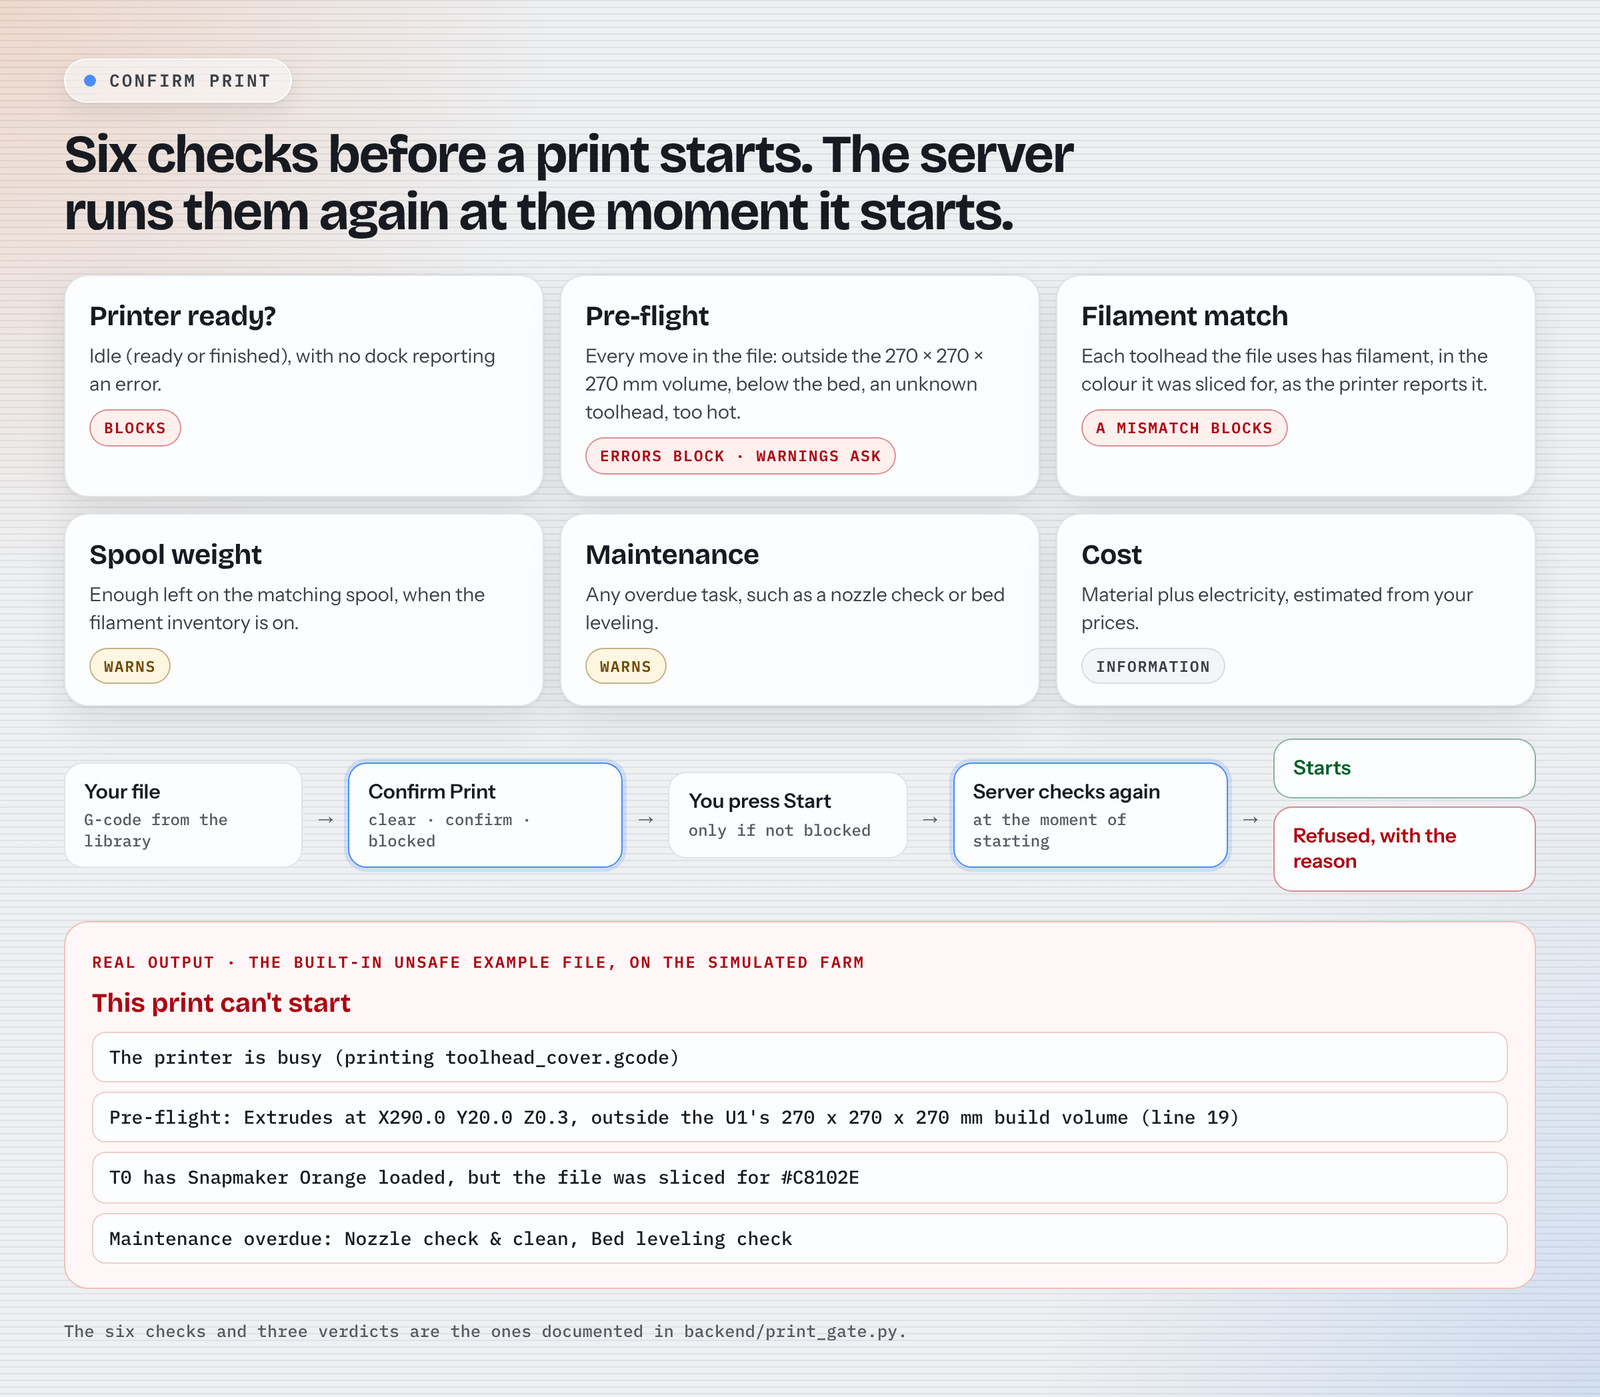
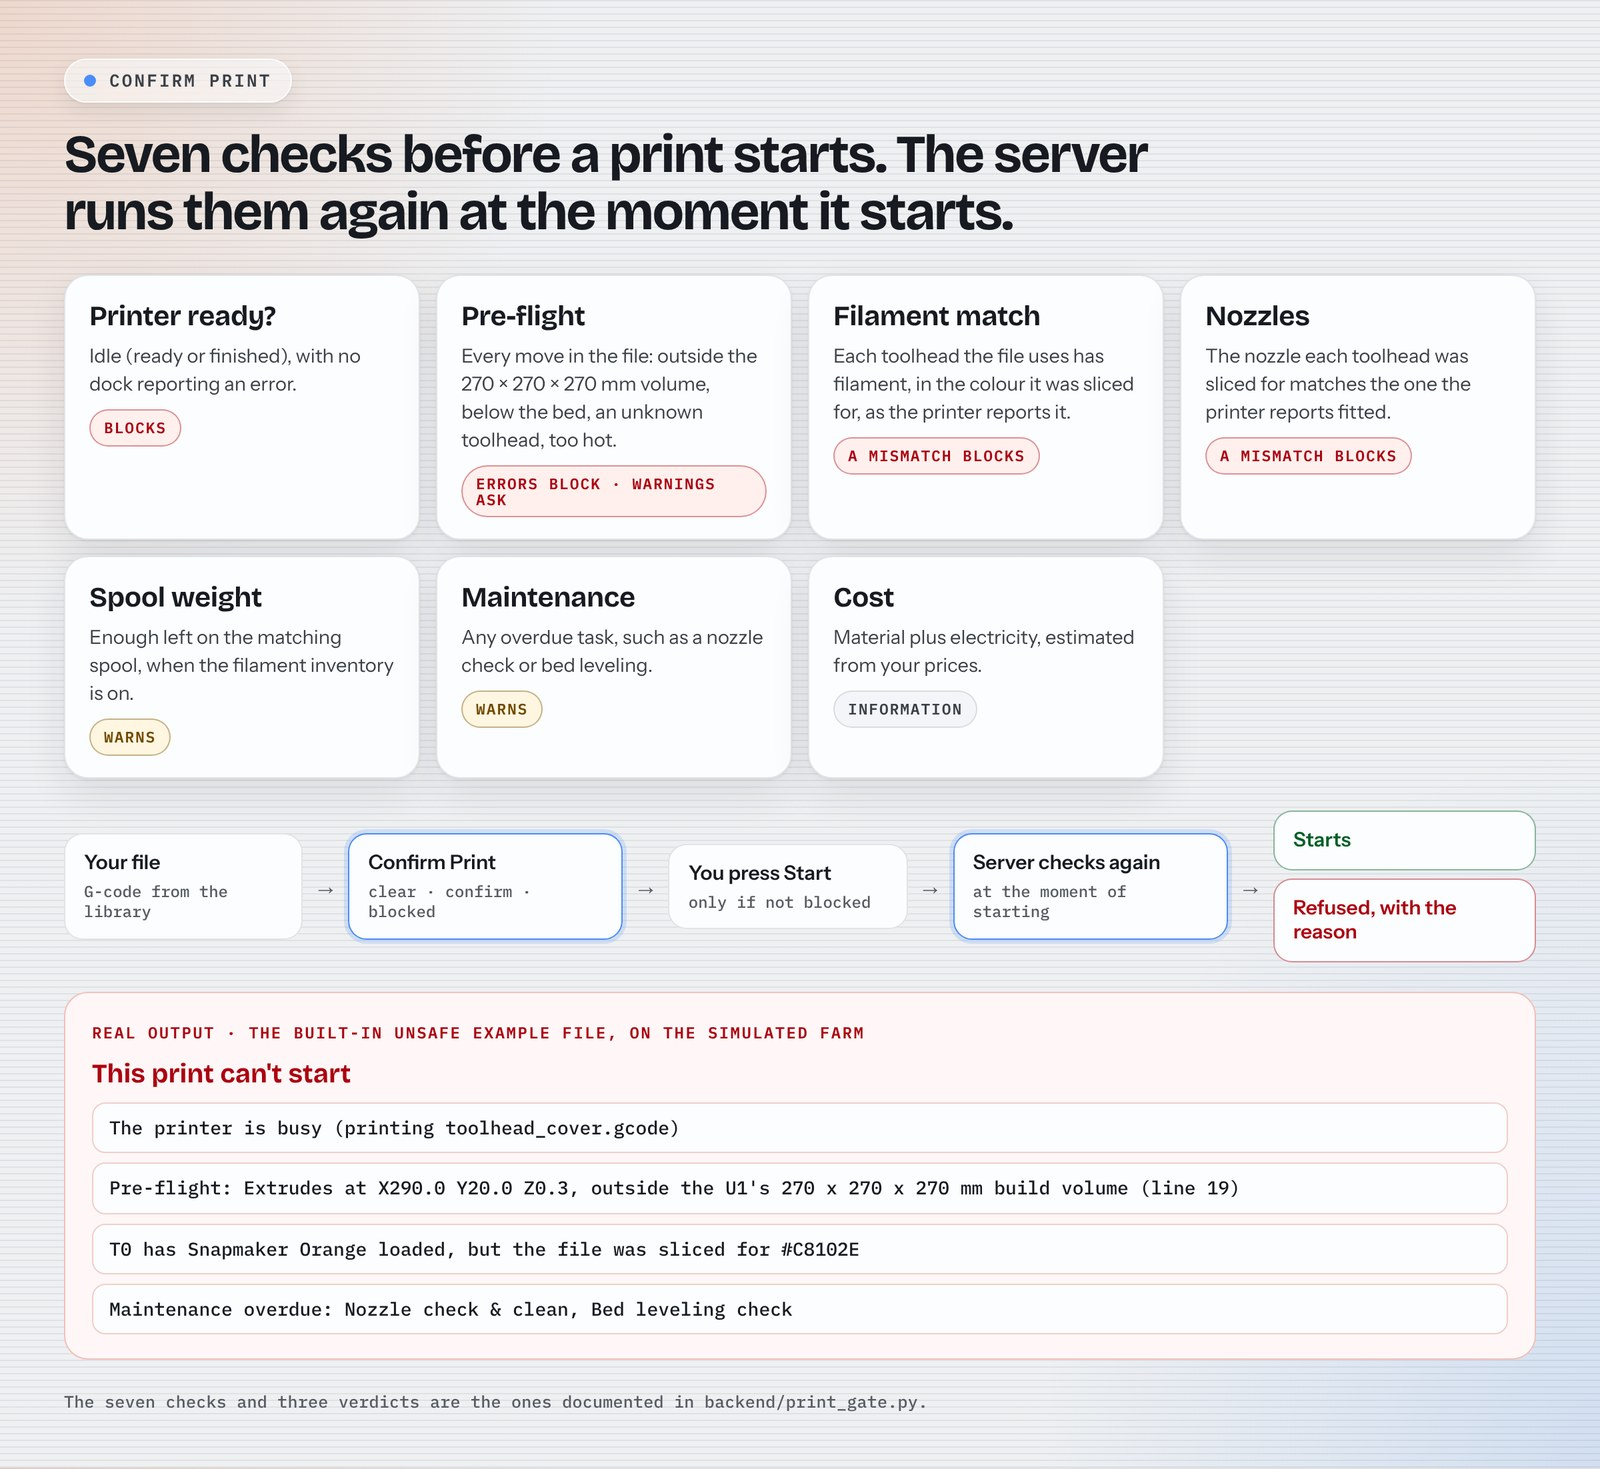
Correct the Confirm Print count to seven and other contradictions
Confirm Print runs seven checks, since the nozzle check blocks a start when the fitted nozzle differs from the one the file was sliced for. The code docstring, README, board picture and marketing notes said six. Also: the README said Python 3.8 had never been run, but GitHub Actions passes on it; the example button no longer says 'winning example'; CLAUDE.md lists DEJAVU_NO_BROWSER.

Claude-Session: https://claude.ai/code/session_01XATun5MYN3bE1Y6zCKejTF

Changed region(s): [[0.0312, 0.0308, 0.9688, 0.9542], [0.7812, 0.8926, 0.9375, 0.9234], [0.5, 0.9542, 0.5312, 0.985]]

diff --git a/tools/readme-images/boards.html b/tools/readme-images/boards.html
@@ -60,7 +60,7 @@ h2{font:700 40px/1.06 "Bricolage Grotesque";letter-spacing:-.03em;margin-top:18p
 .legend i{width:14px;height:14px;border-radius:50%;background:var(--c)}
 
 /* confirm */
-.checks{display:grid;grid-template-columns:repeat(3,1fr);gap:12px;margin-top:26px}
+.checks{display:grid;grid-template-columns:repeat(4,1fr);gap:12px;margin-top:26px}
 .check{display:grid;gap:8px;align-content:start;padding:18px 18px 16px;border-radius:18px;background:var(--paper);border:1px solid var(--hair);box-shadow:var(--shadow)}
 .check .n{font:600 12px/1 "IBM Plex Mono";color:var(--faint);letter-spacing:.08em}
 .check h3{font:680 21px/1.15 "Bricolage Grotesque";letter-spacing:-.01em}
@@ -159,11 +159,12 @@ h2{font:700 40px/1.06 "Bricolage Grotesque";letter-spacing:-.03em;margin-top:18p
 <!-- ============ 2. Confirm Print ============ -->
 <section class="board" id="b-confirm">
   <span class="eyebrow"><i></i>Confirm Print</span>
-  <h2>Six checks before a print starts. The server runs them again at the moment it starts.</h2>
+  <h2>Seven checks before a print starts. The server runs them again at the moment it starts.</h2>
   <div class="checks">
     <div class="check"><h3>Printer ready?</h3><p>Idle (ready or finished), with no dock reporting an error.</p><span class="tag block">Blocks</span></div>
     <div class="check"><h3>Pre-flight</h3><p>Every move in the file: outside the 270 × 270 × 270 mm volume, below the bed, an unknown toolhead, too hot.</p><span class="tag block">Errors block · warnings ask</span></div>
     <div class="check"><h3>Filament match</h3><p>Each toolhead the file uses has filament, in the colour it was sliced for, as the printer reports it.</p><span class="tag block">A mismatch blocks</span></div>
+    <div class="check"><h3>Nozzles</h3><p>The nozzle each toolhead was sliced for matches the one the printer reports fitted.</p><span class="tag block">A mismatch blocks</span></div>
     <div class="check"><h3>Spool weight</h3><p>Enough left on the matching spool, when the filament inventory is on.</p><span class="tag ask">Warns</span></div>
     <div class="check"><h3>Maintenance</h3><p>Any overdue task, such as a nozzle check or bed leveling.</p><span class="tag ask">Warns</span></div>
     <div class="check"><h3>Cost</h3><p>Material plus electricity, estimated from your prices.</p><span class="tag info">Information</span></div>
@@ -185,7 +186,7 @@ h2{font:700 40px/1.06 "Bricolage Grotesque";letter-spacing:-.03em;margin-top:18p
       <li>Maintenance overdue: Nozzle check &amp; clean, Bed leveling check</li>
     </ul>
   </div>
-  <p class="foot">The six checks and three verdicts are the ones documented in backend/print_gate.py.</p>
+  <p class="foot">The seven checks and three verdicts are the ones documented in backend/print_gate.py.</p>
 </section>
 
 <!-- ============ 3. Architecture ============ -->

diff --git a/frontend/index.html b/frontend/index.html
@@ -600,7 +600,7 @@
         <p>A different nozzle and layer height on each toolhead: fine detail where it shows, thick fast layers inside</p></div>
       <section class="card liquid-glass lp-card">
         <div class="card-head"><div><h2>Plan the layers</h2><p class="card-sub">Pick each toolhead's nozzle and the layer height you'd like. The planner finds the shared layer grid, the way mixed-nozzle slicers do, and checks each height against Snapmaker's U1 profile for that nozzle.</p></div>
-          <button class="btn small" type="button" id="lp-example">Try the winning example</button></div>
+          <button class="btn small" type="button" id="lp-example">Try an example</button></div>
         <div class="lp-layout">
           <form class="lp-form" id="lp-form" novalidate>
             <div class="lp-rows" id="lp-rows"></div>

diff --git a/backend/print_gate.py b/backend/print_gate.py
@@ -16,6 +16,8 @@ It combines checks that already exist elsewhere, plus the file itself:
   filament match     each toolhead the file uses must have filament
                      loaded, in the colour the file was sliced for,
                      as the printer itself reports it     -> mismatch blocks
+  nozzles            the nozzle each toolhead was sliced for must match
+                     the one the printer reports fitted    -> mismatch blocks
   spool weight       enough filament left on the matching spool? (from the
                      filament inventory, when that module is on) -> warns
   maintenance        overdue tasks                           -> warns

diff --git a/README.md b/README.md
@@ -150,7 +150,7 @@ Every screenshot in this section comes from the built-in simulated farm (the **D
 
 <sub>**Fleet:** every printer's state, progress, filament per dock, temperatures and health, with controls to command several at once.</sub>
 
-![Confirm Print explained: six checks (printer ready, pre-flight, filament match, spool weight, maintenance, cost), what each one does when it fails, the path from your file to a start or a refusal, and a real refusal from the built-in unsafe example file](docs/img/explainer-confirm-print.jpg)
+![Confirm Print explained: seven checks (printer ready, pre-flight, filament match, nozzles, spool weight, maintenance, cost), what each one does when it fails, the path from your file to a start or a refusal, and a real refusal from the built-in unsafe example file](docs/img/explainer-confirm-print.jpg)
 
 <table>
 <tr>
@@ -483,7 +483,7 @@ Snapmaker's own source and documentation.
 ![By the numbers: 638 automated tests, 250 ms between live updates, 12 printers on one dashboard, 0 packages to install beyond Python, 7 maintenance tasks, 28 Home Assistant sensors, 27 printers in the farm sandbox, and the 270 mm per axis build volume the pre-flight checks against](docs/img/explainer-by-the-numbers.jpg)
 
 - **Backend:** Python, standard library only — written for 3.8 or newer;
-  tested on 3.11 and 3.13 (3.8 itself hasn't been run)
+  the test suite passes on 3.8, 3.10, 3.12 and 3.13 in GitHub Actions
 - **Web server:** `http.server` from the standard library (the threading
   version), plus a hand-written RFC 6455 WebSocket for live updates
 - **Frontend:** HTML, CSS, and JavaScript — no framework, no build step;

diff --git a/marketing-library/README.md b/marketing-library/README.md
@@ -39,7 +39,7 @@ Illustrations that explain one idea each. Rendered from
 
 | | |
 |---|---|
-| ![What's in it](02-explainer-boards/explainer-whats-in-it.jpg)<br>**What's in it:** every module, grouped by what it needs | ![Confirm Print](02-explainer-boards/explainer-confirm-print.jpg)<br>**Confirm Print:** the six checks before a start |
+| ![What's in it](02-explainer-boards/explainer-whats-in-it.jpg)<br>**What's in it:** every module, grouped by what it needs | ![Confirm Print](02-explainer-boards/explainer-confirm-print.jpg)<br>**Confirm Print:** the seven checks before a start |
 | ![How it connects](02-explainer-boards/explainer-how-it-connects.jpg)<br>**How it connects:** one connection per printer, shared by every module | ![By the numbers](02-explainer-boards/explainer-by-the-numbers.jpg)<br>**By the numbers:** 638 tests, 250 ms updates, 12 printers… |
 | ![Silent docks](02-explainer-boards/explainer-silent-docks.jpg)<br>**Dock status:** the old lead picture. Now used only in the README's dock rings section; don't lead with it | |
 

diff --git a/CLAUDE.md b/CLAUDE.md
@@ -74,11 +74,12 @@ python3 backend/maintenance.py              # console demos (also led_status.py,
 python3 tools/online-demo/record.py         # re-record the online demo (about 3 min)
 ```
 
-Environment variables (the only ones read): `PORT` (default 8000),
+Environment variables (the only ones the app reads): `PORT` (default 8000),
 `DEJAVU_ALLOWED_HOSTS` (comma-separated extra host names, e.g. a Cloudflare
 Tunnel domain), `DEJAVU_MOONRAKER_LOG=1` (print every Moonraker exchange),
 `DEJAVU_SLICER_PATH` (OrcaSlicer binary for auto-print), `DEJAVU_DATA_DIR`
-(where settings and files live; default `backend/data/`).
+(where settings and files live; default `backend/data/`),
+`DEJAVU_NO_BROWSER=1` (read by `start.py`: don't open the browser).
 
 Browser checks in the cloud sandbox: Playwright is installed for Node
 (`NODE_PATH=/opt/node22/lib/node_modules node script.js`, then

diff --git a/tools/readme-images/README.md b/tools/readme-images/README.md
@@ -32,7 +32,7 @@ simulated:
 | `twin-health-chamber.jpg` | Overview: the digital twin row (`.live-row`), printer U1 · Workshop |
 | `skip-object.jpg` | Control: the "Objects on the plate" card, with one object picked |
 | `twin-detail.jpg` | Overview: the digital twin (`#twin-card`), T0's balloon clicked so its details show |
-| `layer-planner.jpg` | Files: the Mixed-nozzle planner (`#tab-layerplan`) → Try the winning example |
+| `layer-planner.jpg` | Files: the Mixed-nozzle planner (`#tab-layerplan`) → Try an example |
 | `add-printer.jpg` | Fleet → Add a printer, with the address of a running `tests/fake_moonraker.py` stand-in, then Test |
 | `converter.jpg` | Files → `sample_makerworld_three_plates.3mf` → Convert for Snapmaker U1: the report |
 | `sandbox.jpg`, `sandbox-farm.jpg` | Fleet → farm sandbox: add 6 printers, load "Jam mid-print", step 660 s |

diff --git a/docs/first-connection.md b/docs/first-connection.md
@@ -28,8 +28,8 @@ its controls. Keep it on your home network for the session (see
 
 ## Before you start
 
-- A computer on the same network as the U1, with Python 3.8 or newer (it's
-  tested on 3.11 and 3.13). It hasn't been confirmed on Windows yet; if that's
+- A computer on the same network as the U1, with Python 3.8 or newer (the
+  tests pass on 3.8, 3.10, 3.12 and 3.13 in GitHub Actions). It hasn't been confirmed on Windows yet; if that's
   what you have, say so when you sign up.
 - The printer's address: the same one Fluidd or Mainsail uses, usually
   `http://<printer-ip>:7125`.
